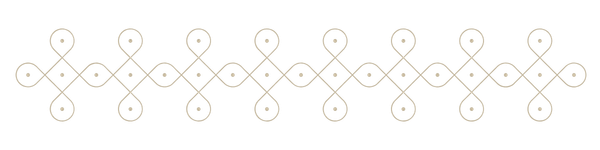
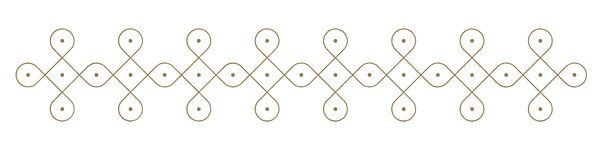
Add Tamil title above Valaikaapu heading
Adds வளைகாப்பு in Baloo Thambi 2 (larger, purple) above the (Valaikaapu) heading, plus updated invite-bg.png/spacer.png assets.

diff --git a/styles.css b/styles.css
@@ -2,7 +2,7 @@
   --purple: #407353;
   --blue: #4f8ef7;
   --teal: #45c9b8;
-  --yellow: #fbd65b;
+  --yellow: #d6c99d;
   --pink: #f98fc0;
   --white: #ffffff;
   --ink: #1c1d2e;
@@ -82,13 +82,13 @@ h2 {
 }
 
 .amp-bubble {
-  background: var(--purple);
-  color: var(--white);
+  /* background: var(--yellow); */
+  color: var(--ink);
   font-family: "Londrina Sketch", "Baloo Thambi 2", sans-serif;
   font-weight: 400;
-  font-size: 1.3rem;
+  font-size: 2rem;
   width: 2.4em;
-  height: 2.4em;
+  height: 1.4em;
   border-radius: 63% 37% 54% 46% / 55% 45% 55% 45%;
   display: flex;
   align-items: center;
@@ -168,6 +168,14 @@ h2 {
 
 .icon-orange {
   background: var(--yellow);
+}
+
+.tamil-title {
+  margin: 0 0 0.25rem;
+  font-family: "Baloo Thambi 2", sans-serif;
+  font-size: 2.5rem;
+  font-weight: 700;
+  color: var(--purple);
 }
 
 .detail-card h2 {

diff --git a/index.html b/index.html
@@ -7,7 +7,7 @@
 
 <link rel="preconnect" href="https://fonts.googleapis.com">
 <link rel="preconnect" href="https://fonts.gstatic.com" crossorigin>
-<link href="https://fonts.googleapis.com/css2?family=Dancing+Script:wght@400..700&family=League+Spartan:wght@100..900&family=Londrina+Sketch&family=Rubik+Dirt&display=swap" rel="stylesheet">
+<link href="https://fonts.googleapis.com/css2?family=Baloo+Thambi+2:wght@400..800&family=Dancing+Script:wght@400..700&family=League+Spartan:wght@100..900&family=Londrina+Sketch&family=Rubik+Dirt&display=swap" rel="stylesheet">
 
 <link rel="stylesheet" href="styles.css">
 </head>
@@ -32,6 +32,7 @@
     <div class="details">
       <div class="detail-card detail-card--invite">
         <!-- <span class="icon-badge icon-pink">&#127881;</span> -->
+        <p class="tamil-title">வளைகாப்பு</p>
         <h2>(Valaikaapu)</h2>
         <p class="when">Saturday, August 15th &middot; 2&ndash;6pm</p>
         <p class="where">Germantown, Philadelphia, PA <span class="tbd"> <br> venue to be updated</span></p>